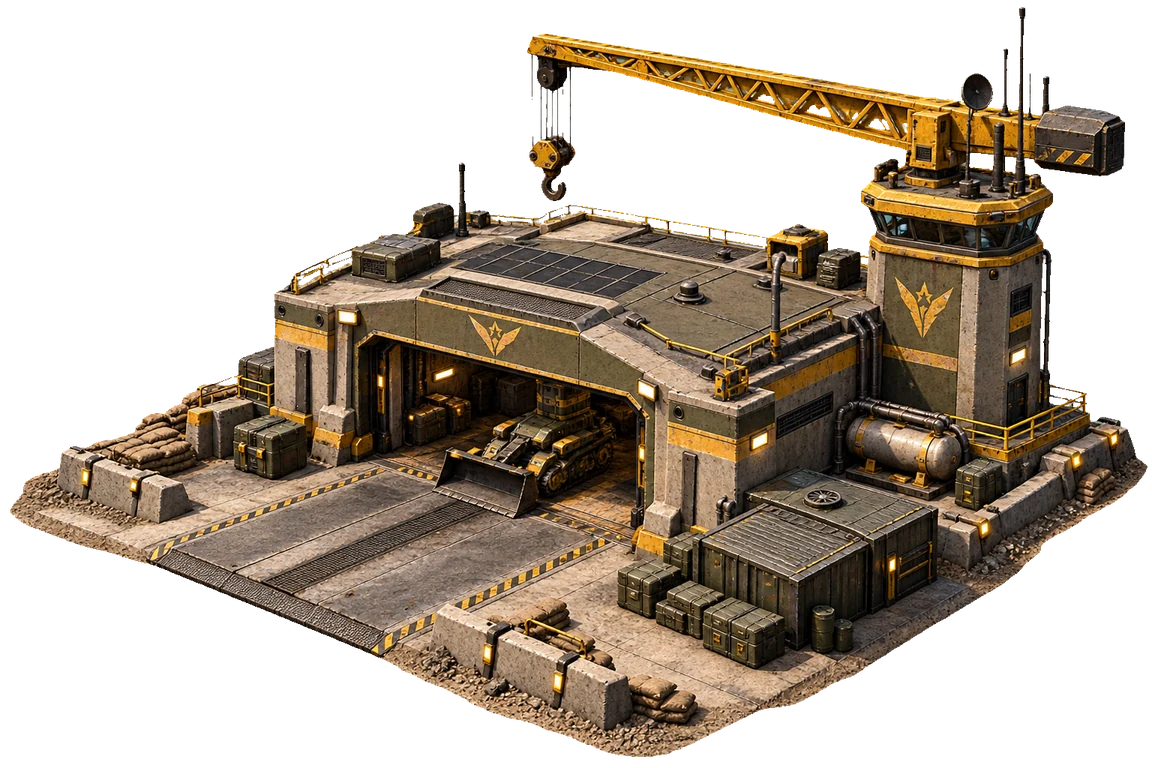
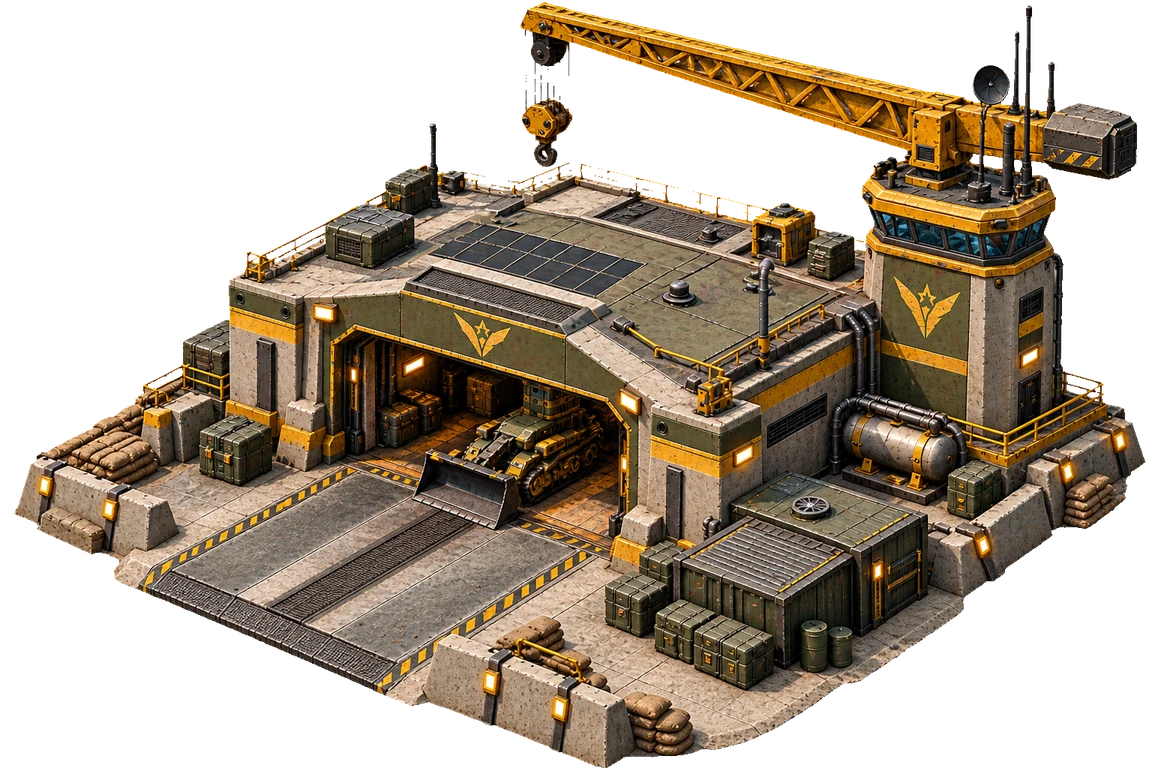
Iron Frontier: use painted building art with the original camera
Claude-Session: https://claude.ai/code/session_01NqHrZGmSX2g7fkjHFsBv4C

diff --git a/game/iron-frontier.html b/game/iron-frontier.html
@@ -754,9 +754,14 @@
   const reqMet = (o, req) => !req || have(o, req);
 
   // Painted building art (art/ folder). ax, ay: pixel at the footprint centre; ppt: pixels per map tile.
-  // Painted building art goes here once it is drawn for this camera (straight-on, about 58 degrees down).
-  // Example entry: hq: { 0: { src: 'art/S01-vanguard.webp', w: 1152, h: 768, ax: 576, ay: 520, ppt: 300 } },
+  // Painted building art (art/ folder). The pictures are isometric, so each is centred on its footprint and
+  // sized so its base spans the footprint width. ax, ay: pixel at the footprint centre; ppt: pixels per map tile.
   const ART = {
+    hq: { 0: { src: 'art/S01-vanguard.webp', w: 1152, h: 768, ax: 579, ay: 487, ppt: 328 } },
+    power: { 0: { src: 'art/S02-vanguard.webp', w: 1152, h: 768, ax: 580, ay: 462, ppt: 489 } },
+    // the painted refinery includes its unloading dock, so it covers 3 x 3 tiles and sits half a tile toward the front
+    refinery: { 0: { src: 'art/S03-vanguard.webp', w: 1152, h: 768, ax: 576, ay: 483, ppt: 326, oz: 0.5 } },
+    factory: { 0: { src: 'art/S06-vanguard.webp', w: 1152, h: 1152, ax: 576, ay: 804, ppt: 326 } },
   };
   const artTex = {};
   Object.values(ART).forEach(byOwner => Object.values(byOwner).forEach(a => {
